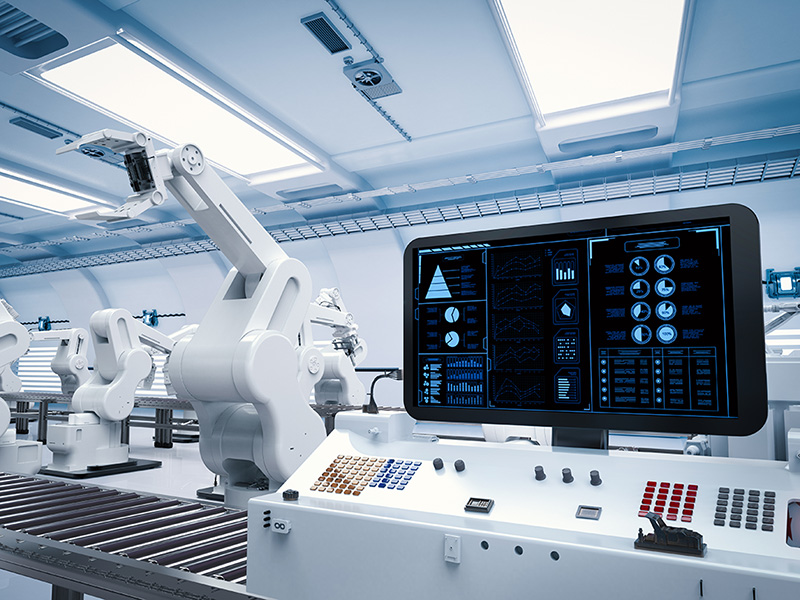
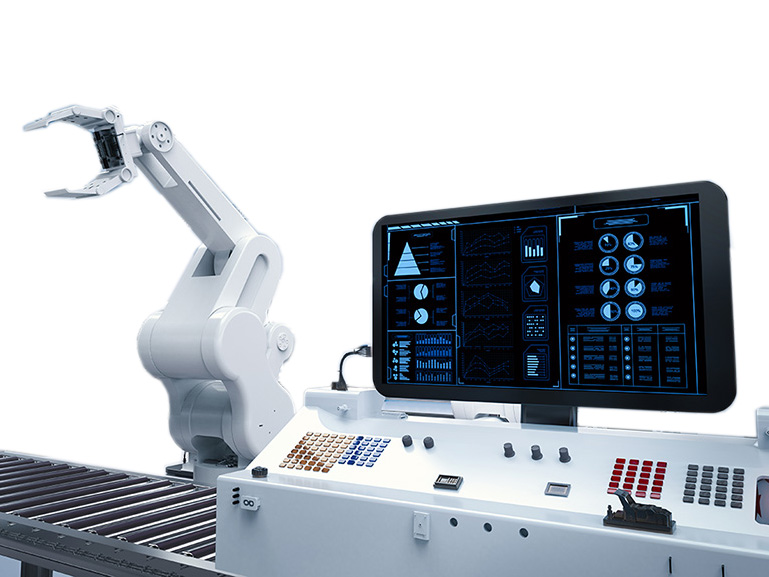
Graphics-AIO及HMI圖片設白底.修正文字.

diff --git a/Graphics-Display-SoCs.html b/Graphics-Display-SoCs.html
@@ -815,7 +815,7 @@ height="0" width="0" style="display:none;visibility:hidden"></iframe></noscript>
                     </li>
                     <li>
                       <img src="https://www.innodisk.com/upload/images/20190109-1301462.png" alt="">
-                      <a href="https://www.innodisk.com/en/products/embedded-peripheral/display/egpv-1101" target="_blank">Innodisk EGPV-1101 M.2 to Single HDMI or DVI-D Module ; M.2 to Single/Dual Channel LVDS Module </a></li>
+                      <a href="https://www.innodisk.com/en/products/embedded-peripheral/display/egpv-1101" target="_blank">Innodisk EGPV-1101 M.2 to Single HDMI or DVI-D Module; M.2 to Single/Dual Channel LVDS Module </a></li>
                     <li>
                       <img src="https://www.innodisk.com/upload/images/20170523-1124074.png" alt="">
                       <a href="https://www.innodisk.com/en/products/embedded-peripheral/display/empv-1202" target="_blank">Innodisk EMPV-1202 mPCIe to VGA & 18/24 bit LVDS module</a></li>
@@ -925,7 +925,7 @@ height="0" width="0" style="display:none;visibility:hidden"></iframe></noscript>
                   <ul class="applications-submenu">
                     <li>
                       <img src="images/applications/menu-img_HMI.jpg" alt="">
-                      <div>Delivering high performance display solutions for Industrial automation and HMI</div>
+                      <div>Delivering high performance display solutions for industrial automation and HMI</div>
                     </li>
                   </ul>
                   <a href="" class="submenu-close"><svg xmlns="http://www.w3.org/2000/svg" viewBox="0 0 64 64" aria-labelledby="title"
